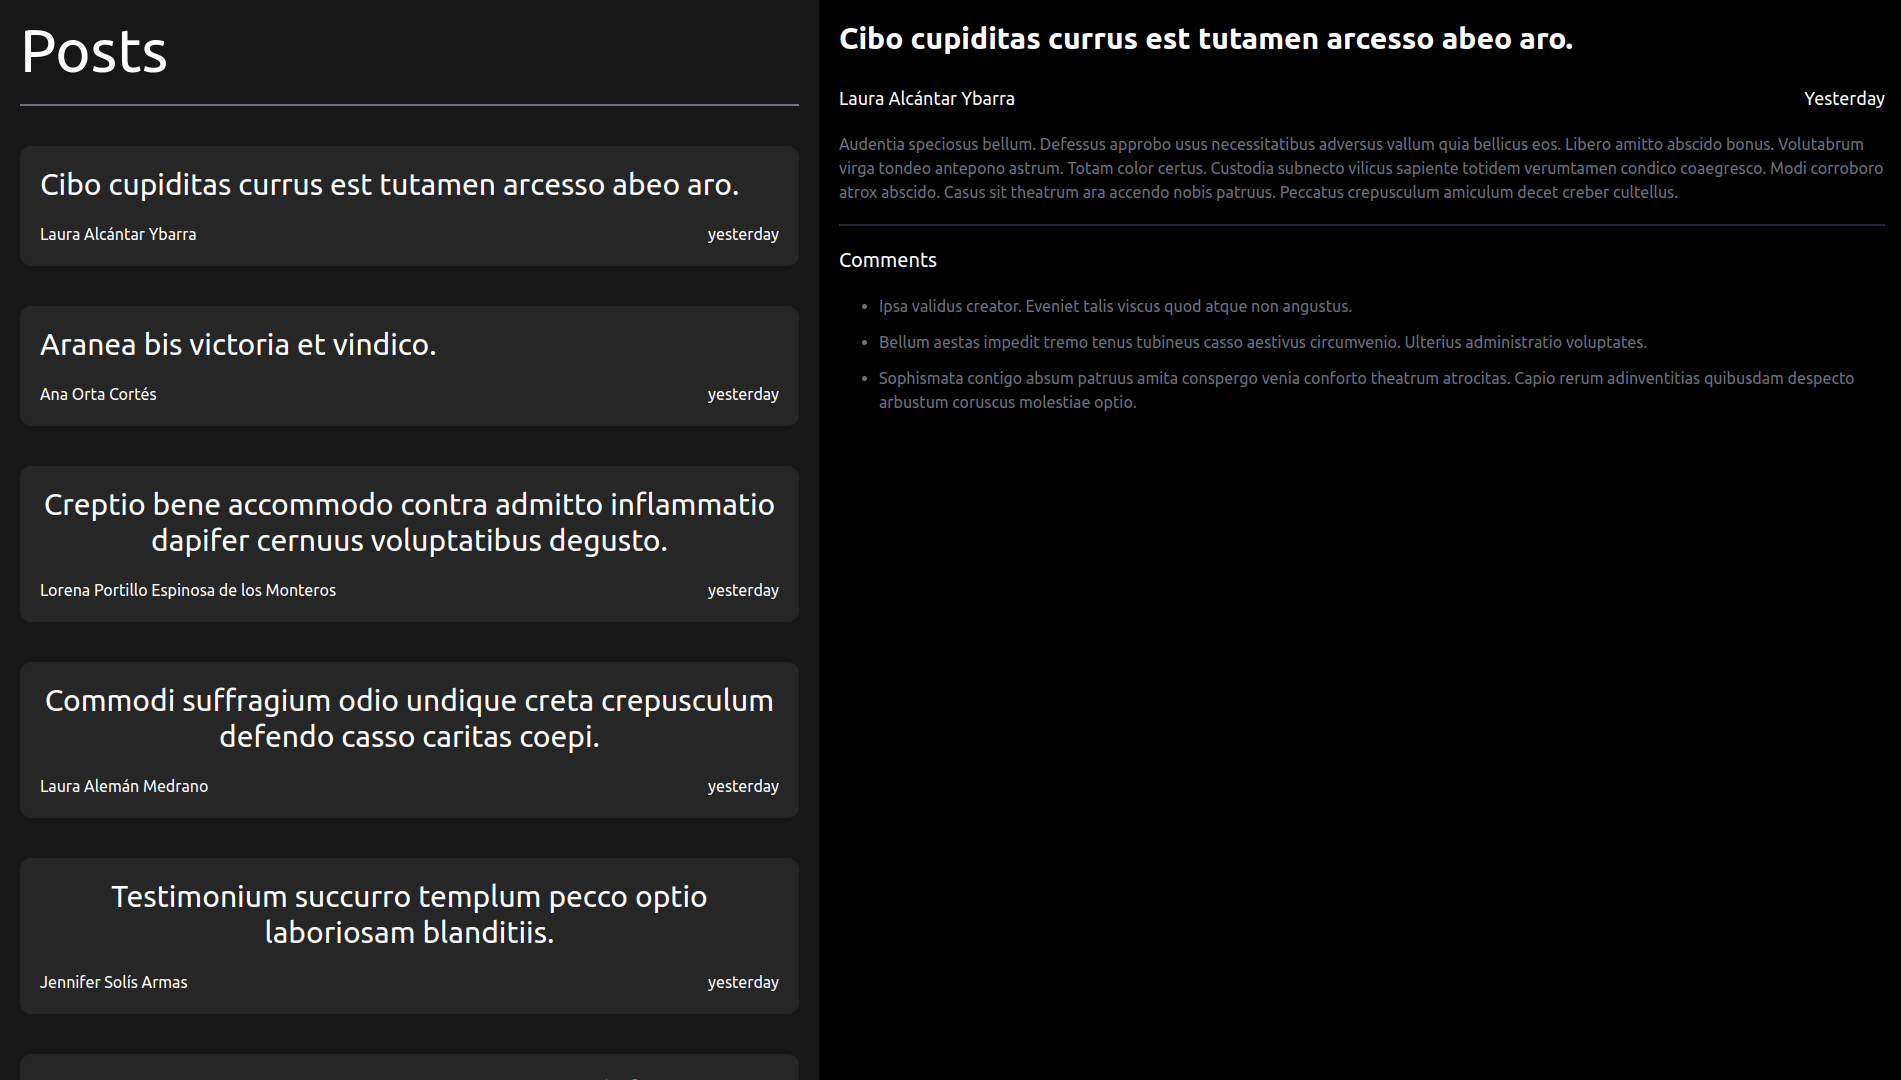
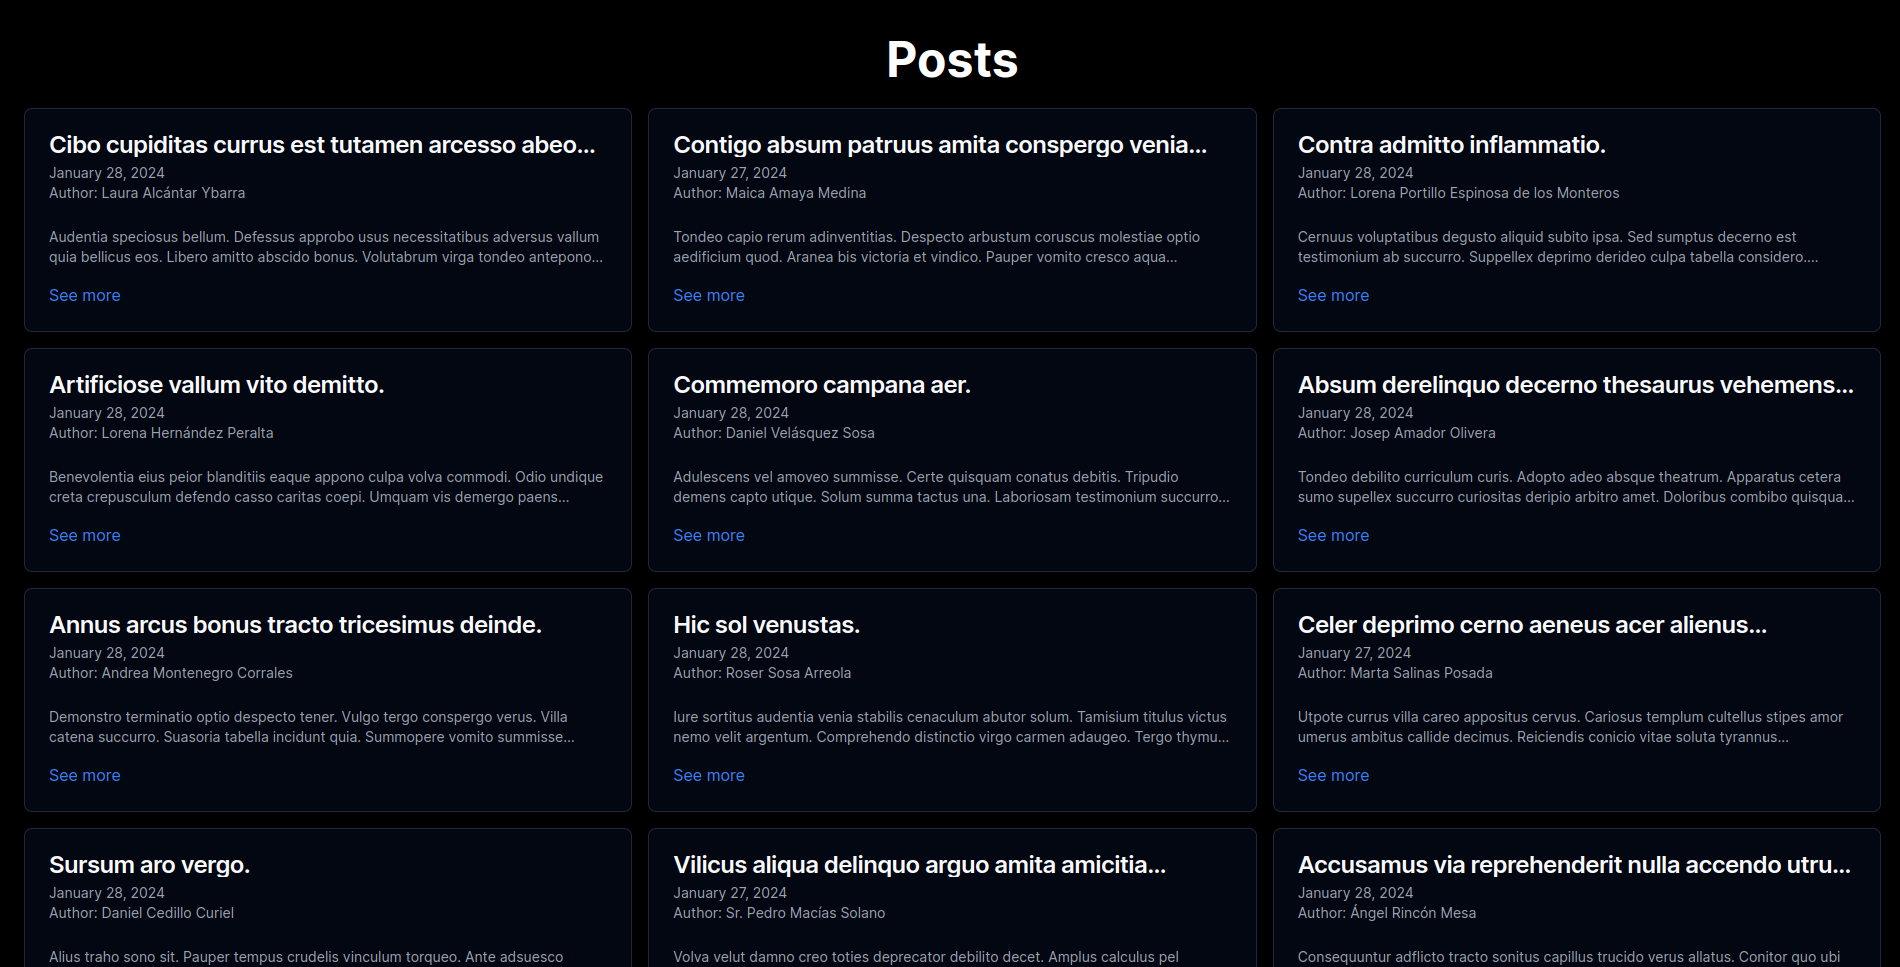
Updates the README

diff --git a/README.md b/README.md
@@ -91,14 +91,13 @@ infrastructure-mastery/
 
 For those unfamiliar with the [C4 model](https://c4model.com/), the C4 model consists of a set of hierarchical diagrams (System **C**ontext, **C**ontainers, **C**omponents, and **C**ode). The creation of these diagrams follows a certain methodology and is used to provide clarity to a team of engineers on what to do and how to go about the creation of a complex computer system.
 
-These are the models:
+As the project is just a demo, the diagrams are pretty simple and we won't reach too deep into the component and code diagrams.
 
-Here are the diagrams represented using Mermaid diagrams:
+Here are the diagrams using Mermaid syntax:
 
 ```mermaid
 graph LR
-A[User] -- Interacts --> B((System))
-B -- Interacts --> C[Other Systems]
+A[User] -- Interacts --> B[System]
 ```
 
 Above is the **System Context diagram**. It shows the system as a whole and how it interacts with the User and other systems.
@@ -108,35 +107,6 @@ graph LR
 A[Frontend] -- Interacts --> B[Backend]
 B -- Interacts --> C[Database]
 ```
-
-Above is the **Container diagram**. It shows the high-level technology choices, how responsibilities are distributed across them and how they interact.
-
-```mermaid
-graph TB
-A[Service1] -- Calls --> B[Service2]
-B -- Uses --> C[Repository]
-```
-
-Above is an example of a **Component diagram**. It shows how the backend is decomposed into cooperating components.
-
-```mermaid
-classDiagram
-Class01 <|-- AveryLongClass : Cool
-Class03 *-- Class04
-Class05 o-- Class06
-Class07 .. Class08
-Class09 --> C2 : Where am i?
-Class09 --* C3
-Class09 --|> Class07
-Class07 : equals()
-Class07 : Object[] elementData
-Class01 : size()
-Class01 : int chimp
-Class01 : int gorilla
-Class08 <|-- Class09
-```
-
-Above is an example of a **Code diagram**. It shows the important parts of the code structure.
 
 ### Minikube setup
 
@@ -312,7 +282,7 @@ This is a network issue. They are not set up to be working in the same network, 
 
 ### The frontend
 
-The frontend is very simple. It uses [React](https://react.dev/) and [Vite](https://vitejs.dev/). It's written in Typescript aswell.
+The frontend is very simple. It uses [React](https://react.dev/) and [Next.js](https://nextjs.org/). It's written in Typescript aswell.
 
 ![frontend](/images/frontend.png)
 
@@ -325,9 +295,9 @@ pnpm install # or npm or yarn, it doesn't really matter. I prefer pnpm
 pnpm run dev
 ```
 
-Great! Now you can visit http://localhost:5173/ to see the application.
+Great! Now you can visit http://localhost:3000/ to see the application.
 
-> This application does not use enviroment variables, due to some incompatibilities with how vite handles them. For more information, check the comment on [this file](/frontend/src/lib/useResource.ts)
+> This application uses one enviroment variable, which is the final URL of the backend. It also renders all the HTML in the server, as if it didn't, the name resoultion of the cluster wouldn't work in the browser.
 
 Now, if you have the docker container of the database running, and the backend running also as shown, you will be able to see the front with all the posts and comments! Now, let's dockerize it.
 
@@ -340,7 +310,7 @@ docker build -t infra-mastery-frontend .
 And mounting a container with this command:
 
 ```bash
-docker run -p 4173:4173 infra-mastery-frontend
+docker run -p 4173:4173 --env-file .env.local infra-mastery-frontend
 ```
 
 ## Kubernetes
